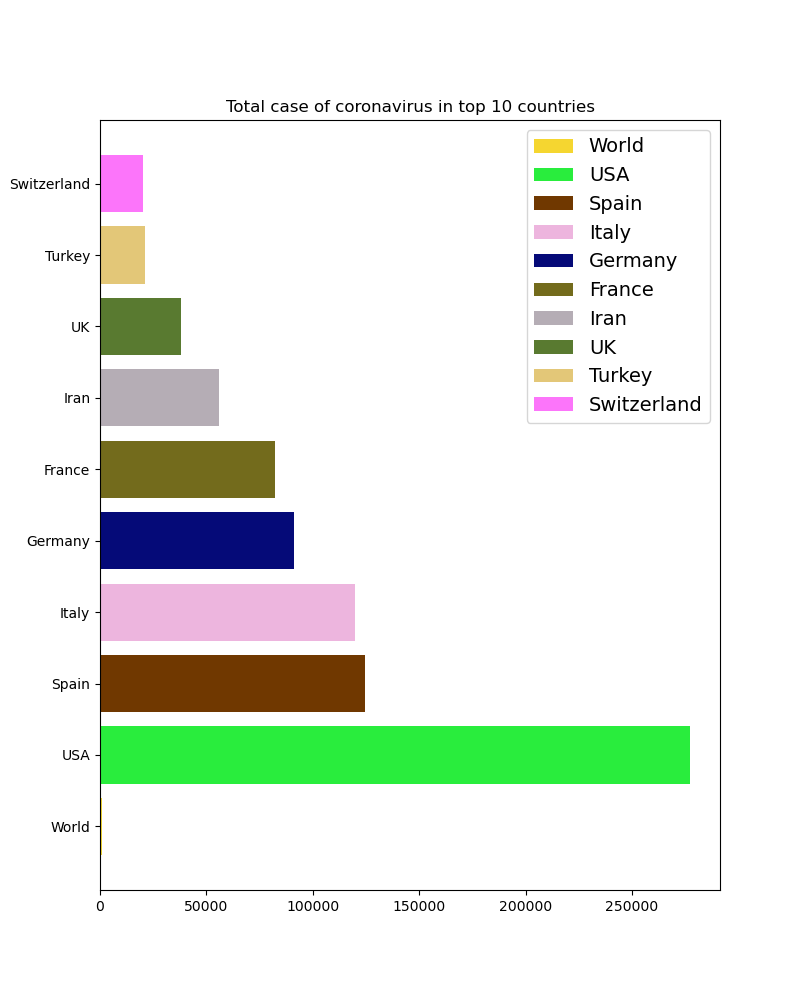
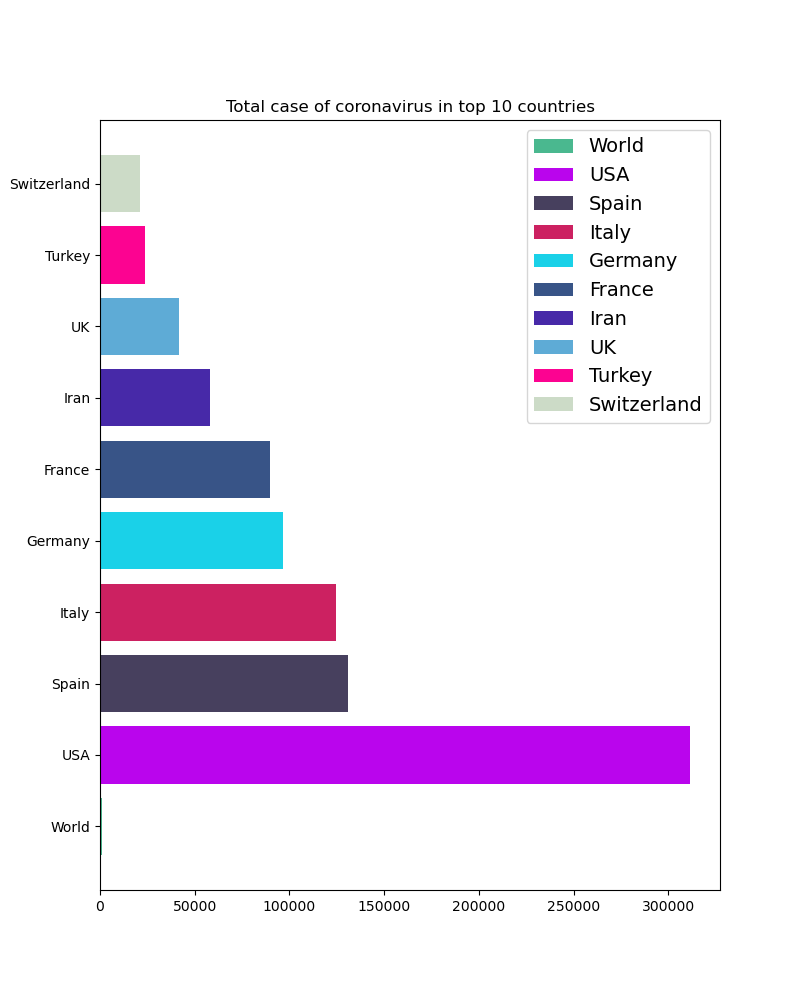
Draw Plot with matplotlib

diff --git a/Templates/index.html b/Templates/index.html
@@ -78,7 +78,7 @@
     <!-- End Slider -->
 
     <!-- Plot -->
-    <img class="plot" src="statics/DB/plot.png" alt="">
+    <img class="plot" src="{{ Plot_Src }}" alt="">
     <p class="plot-title">جدیدترین آمار مبتلایان ده کشور درگیر با کرونا ویروس</p>
 
     <!-- Info Table -->

diff --git a/Draw_Plot.py b/Draw_Plot.py
@@ -1,0 +1,47 @@
+import matplotlib.pyplot as plt 
+import random
+
+def random_color(number):
+    import numpy as np
+    colors = []
+    i = 0
+    while i<number:
+        this_color = list(np.random.choice(range(100), size=3))
+        tmp_color = []
+        tmp_color.append(this_color[0]/100)
+        tmp_color.append(this_color[1]/100)
+        tmp_color.append(this_color[2]/100)
+        colors.append(tmp_color)
+        i = i+1
+    return colors
+
+def get_plot(Country, TotalCases):
+    ### Number of Contries :
+    number_of_country = 10
+
+    ### TotalCase to int(from string) : 
+    TotalCases_int = [] ### Total Case are String by default
+    tmp_Country = []
+    for i in range(0, number_of_country):
+        string_number = TotalCases[i]
+        if "," in string_number:
+            tmp_list = string_number.split(",")
+            string_number = tmp_list[0] + tmp_list[1]
+
+            TotalCases_int.append(int(string_number))
+        else:
+            TotalCases_int.append(int(string_number))
+        
+        tmp_Country.append(Country[i])
+    Country = tmp_Country
+
+    register = range(0, number_of_country)
+    plt.figure(figsize = (8, number_of_country))
+    b = plt.barh(register, TotalCases_int, height = .8, color=tuple(random_color(number_of_country)))
+    plt.yticks(register, Country)
+    plt.title("Total case of coronavirus in top 10 countries")
+    plt.legend(b, Country, fontsize = 14)
+    plot_src = "statics/DB/plot.png"
+    plt.savefig(plot_src)
+
+    return plot_src

diff --git a/app.py b/app.py
@@ -1,6 +1,7 @@
 from flask import Flask, render_template
 import Run_Spider
 import Read_DB
+import Draw_Plot
 
 app = Flask(__name__, static_folder="statics")
 
@@ -26,10 +27,12 @@ def crawl_info():
     TotlaCase_in_1Mpop = Table_Info[8]
 
     # Step 3 : Get Plot Image
-    
+    Plot_Src = Draw_Plot.get_plot(Country, TotalCases)
 
     return render_template("index.html", Coronavirus_Cases=Coronavirus_Cases, Death=Death, Recovered=Recovered,
         Country=Country, TotalCases=TotalCases, NewCases=NewCases, TotalDeath=TotalDeath, NewDeath=NewDeath,
-        TotalRecovered=TotalRecovered, ActiveCases=ActiveCases, Serious_Critical=Serious_Critical, TotlaCase_in_1Mpop=TotlaCase_in_1Mpop
+        TotalRecovered=TotalRecovered, ActiveCases=ActiveCases, Serious_Critical=Serious_Critical, TotlaCase_in_1Mpop=TotlaCase_in_1Mpop,
+        Plot_Src=Plot_Src
     )
 
+app.run(debug=True)
